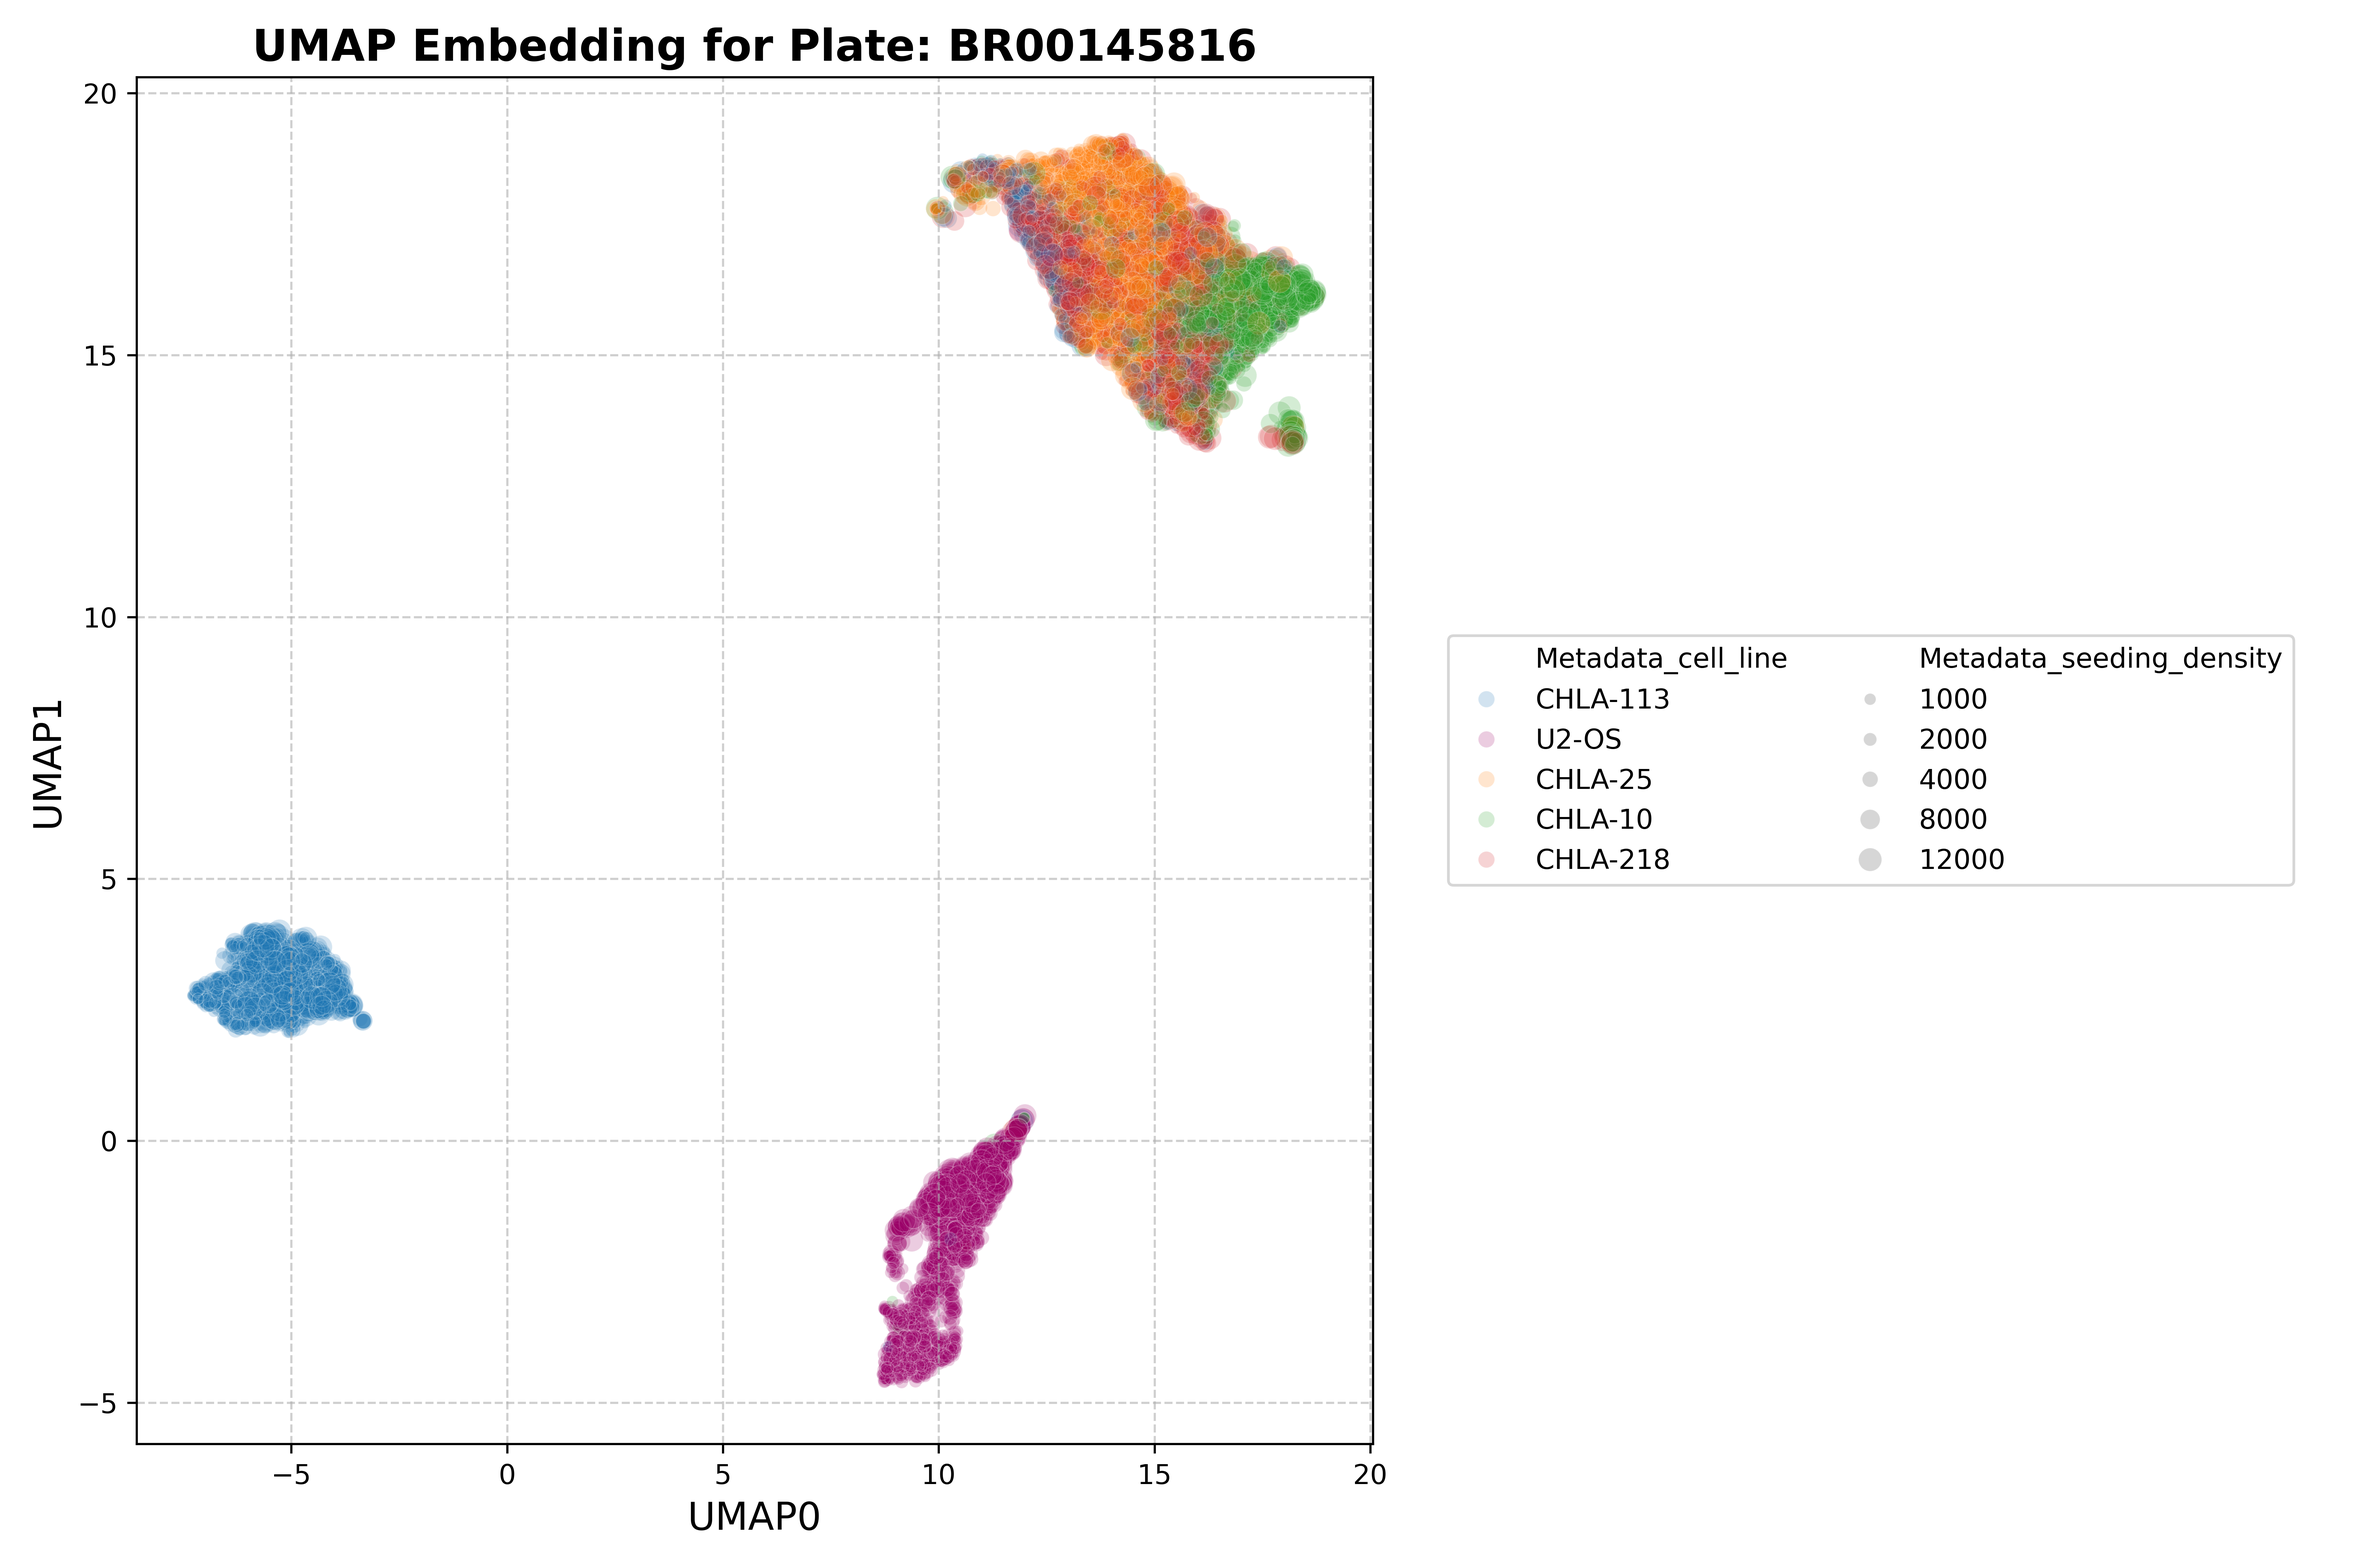
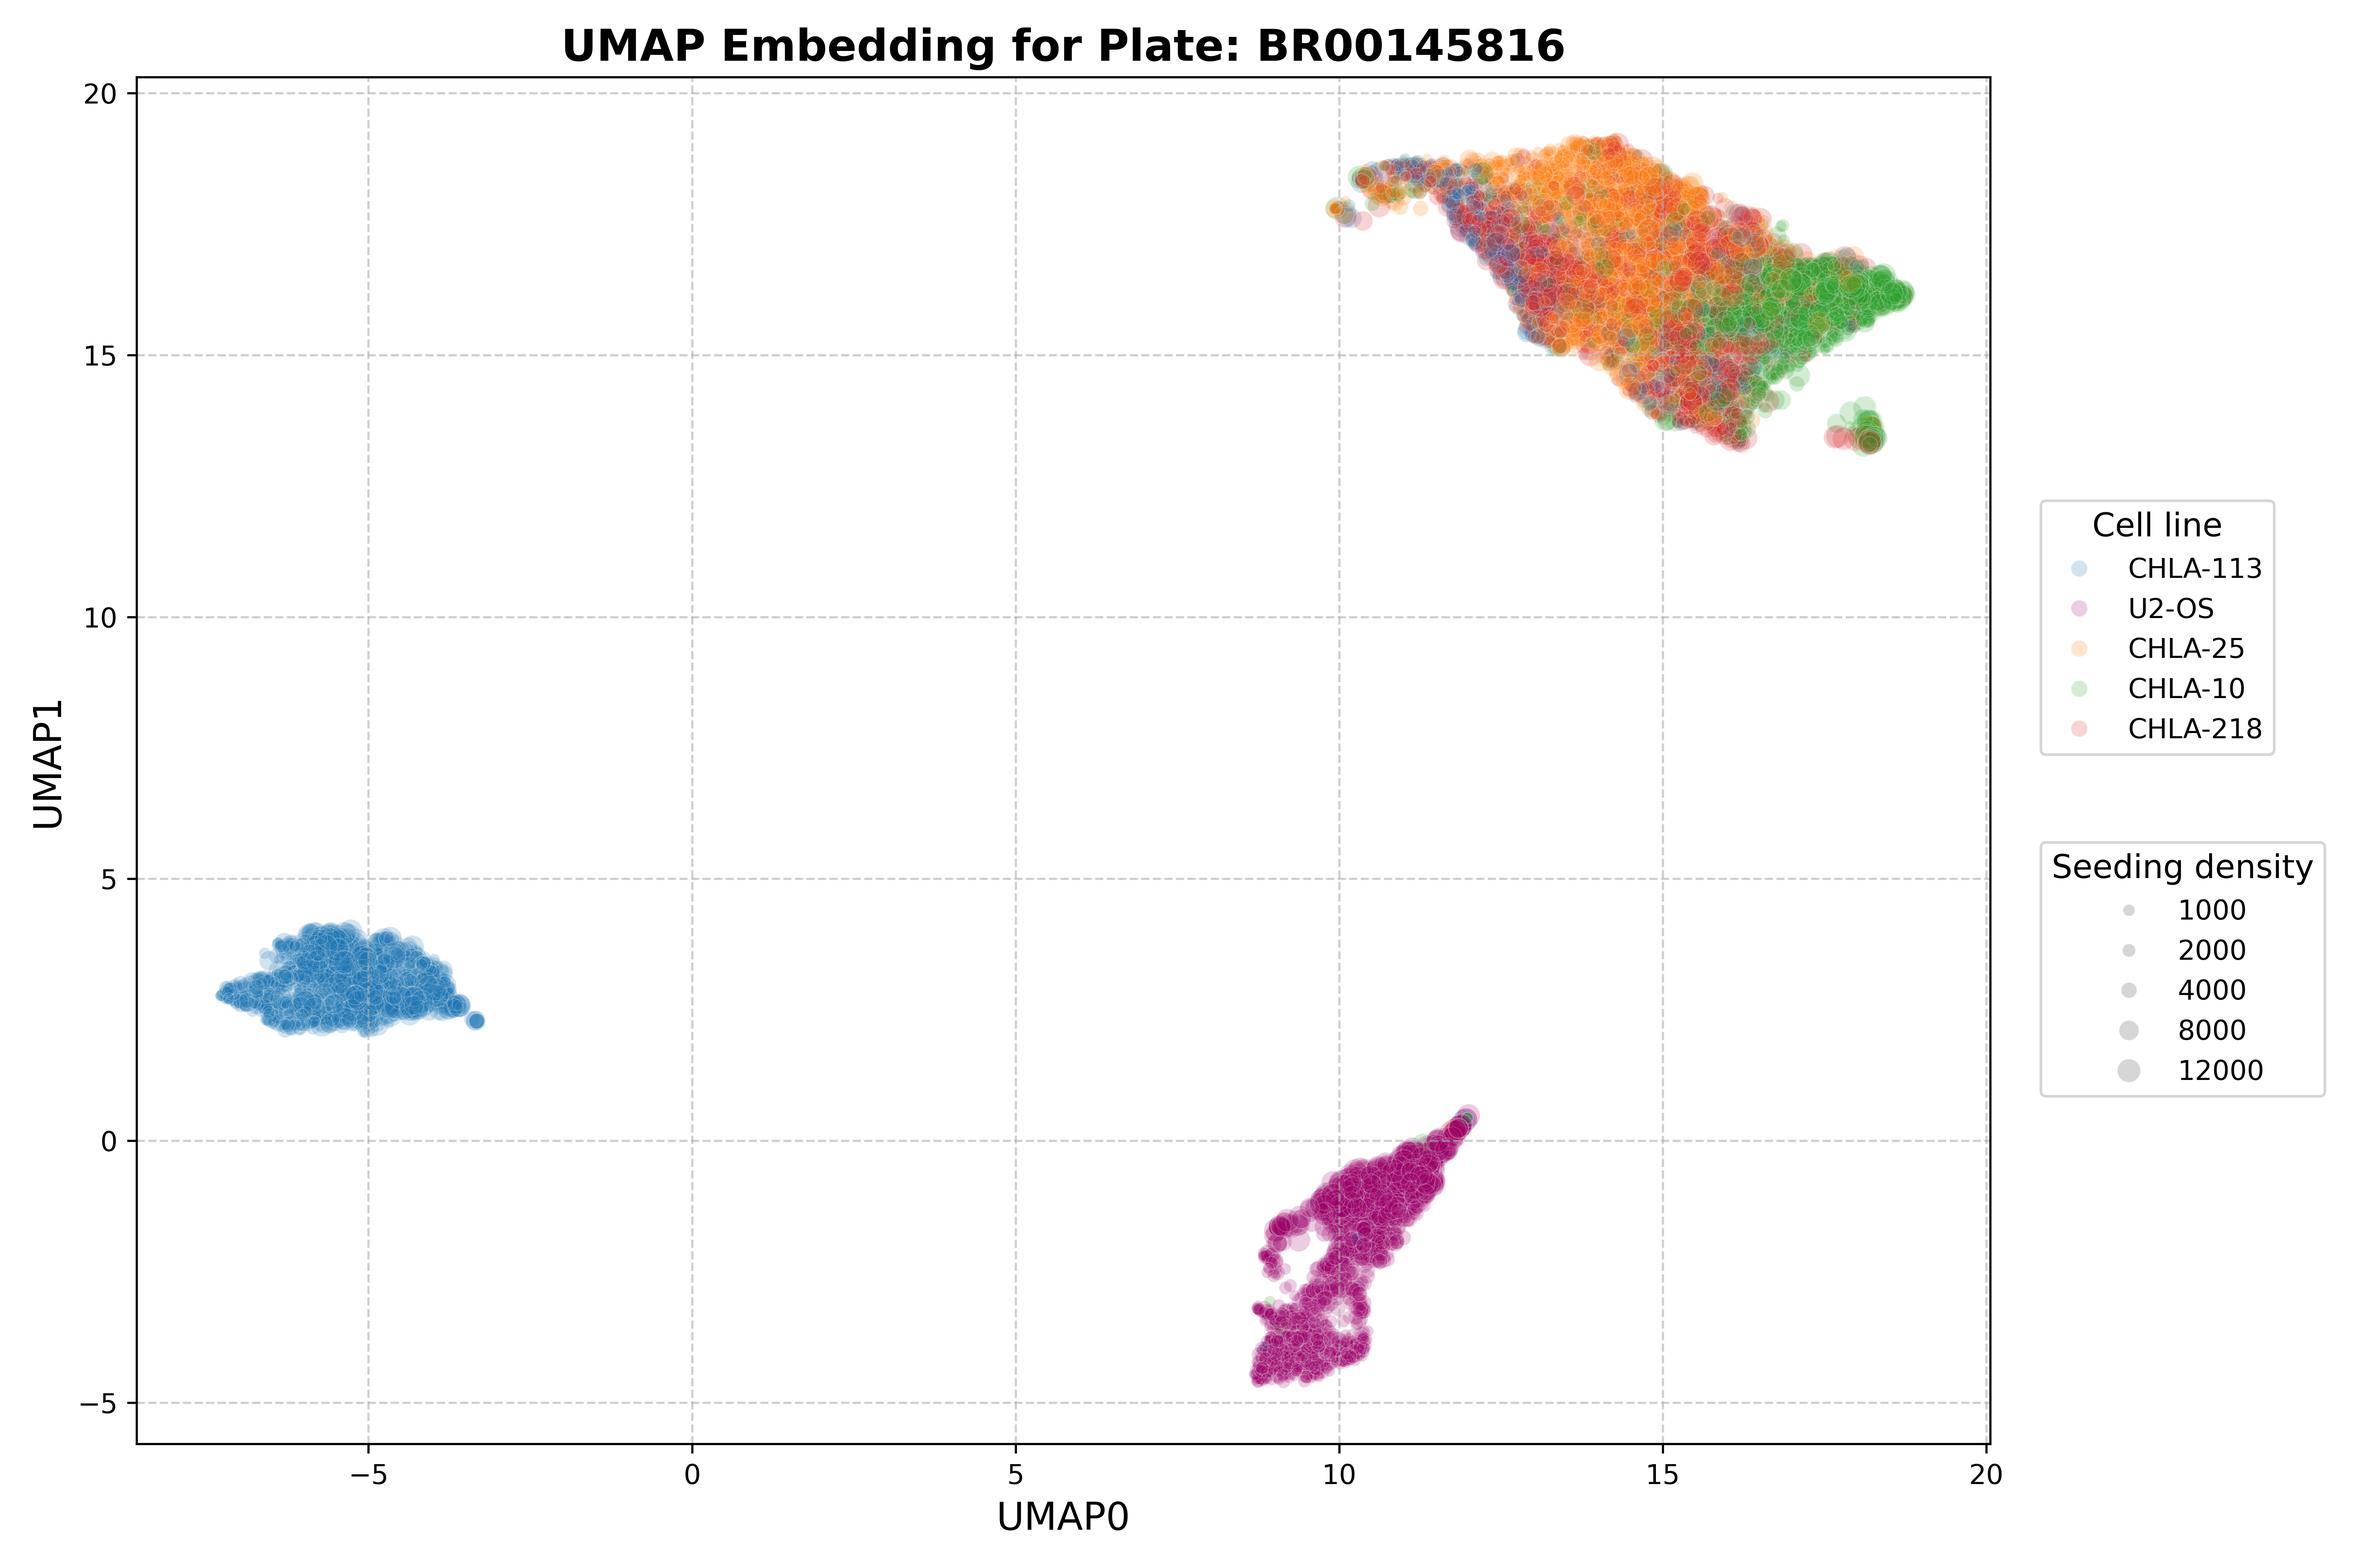
update plots per PR review

diff --git a/1.exploratory_data_analysis/static_UMAP_analysis/nbconverted/0.UMAP_embeddings.py b/1.exploratory_data_analysis/static_UMAP_analysis/nbconverted/0.UMAP_embeddings.py
@@ -51,7 +51,7 @@ if root_dir is None:
 
 
 # Set the round ID for the current analysis
-round_id = "Round_1_data"
+round_id = "Round_2_data"
 
 # Create the directory for saving figures
 figures_dir = pathlib.Path(f"./figures/{round_id}")
@@ -60,7 +60,7 @@ figures_dir.mkdir(exist_ok=True)
 # directory to the single-cell data (based on local system)
 data_dir = pathlib.Path(
     f"../../../pediatric_cancer_atlas_profiling/3.preprocessing_features/data/single_cell_profiles/{round_id}/"
-)
+).resolve(strict=True)
 
 # create a list of paths to each feature-selected profile
 feature_selected_files = list(data_dir.rglob("*_feature_selected.parquet"))
@@ -286,7 +286,7 @@ for plate_name, final_df in umap_results_dict.items():
 
     # Plot
     plt.figure(figsize=(12, 8))
-    sns.scatterplot(
+    scatter = sns.scatterplot(
         data=final_df,
         x="UMAP0",
         y="UMAP1",
@@ -301,14 +301,70 @@ for plate_name, final_df in umap_results_dict.items():
     plt.xlabel("UMAP0", fontsize=14)
     plt.ylabel("UMAP1", fontsize=14)
 
-    # Customize and reposition the legend
-    plt.legend(
+    # Split legends manually
+    ax = plt.gca()
+
+    # Get handles and labels
+    handles, labels = ax.get_legend_handles_labels()
+
+    # Prepare sets for unique legends
+    cell_line_handles = []
+    cell_line_labels = []
+    seeding_handles = []
+    seeding_labels = []
+
+    # Use a set to track seen labels and avoid duplicates
+    seen_labels = set()
+
+    for handle, label in zip(handles, labels):
+        if label in seen_labels or label == "":
+            continue  # Skip duplicates and empty labels
+        seen_labels.add(label)
+
+        if label in final_df["Metadata_cell_line"].unique():
+            cell_line_handles.append(handle)
+            cell_line_labels.append(label)
+        elif (
+            label.isdigit()
+        ):  # seeding densities are numeric strings like '1000', '2000', etc.
+            seeding_handles.append(handle)
+            seeding_labels.append(label)
+
+    # Remove the automatic legend
+    ax.legend_.remove()
+
+    # Dynamically set vertical position based on number of cell lines
+    if round_id == "Round_2_data" and len(cell_line_labels) > 7:
+        cell_line_legend_y = 0.90  # Higher position for Round_2 with many cell lines
+    elif len(cell_line_labels) > 7:
+        cell_line_legend_y = 0.85  # Higher position for many cell lines in other rounds
+    else:
+        cell_line_legend_y = 0.70  # Default position
+
+    # Add the cell line legend
+    legend1 = ax.legend(
+        cell_line_handles,
+        cell_line_labels,
+        title="Cell line",
         fontsize=10,
         title_fontsize=12,
-        loc="center left",
-        bbox_to_anchor=(1.05, 0.5),
-        ncol=2,
+        loc="upper left",
+        bbox_to_anchor=(1.02, cell_line_legend_y),
     )
+
+    # Add the seeding density legend directly below it
+    legend2 = ax.legend(
+        seeding_handles,
+        seeding_labels,
+        title="Seeding density",
+        fontsize=10,
+        title_fontsize=12,
+        loc="upper left",
+        bbox_to_anchor=(1.02, 0.45),  # Adjust this to move it up/down
+    )
+
+    # Make sure both legends are on the plot
+    ax.add_artist(legend1)
 
     plt.grid(True, linestyle="--", alpha=0.6)
     plt.tight_layout()
@@ -367,8 +423,8 @@ plt.legend(
     fontsize=10,
     title_fontsize=12,
     loc="center left",
-    bbox_to_anchor=(1.05, 0.5),
-    ncol=2,
+    bbox_to_anchor=(1.02, 0.5),
+    ncol=1,
 )
 plt.grid(True, linestyle="--", alpha=0.6)
 plt.tight_layout()

diff --git a/1.exploratory_data_analysis/static_UMAP_analysis/README.md b/1.exploratory_data_analysis/static_UMAP_analysis/README.md
@@ -3,7 +3,7 @@
 In this module, we perform EDA (exploratory data analysis) using the pilot morphology data that we have extracted.
 Current analysis includes:
 
-1. [Single-cell UMAPs](./0.UMAP_embeddings.ipynb): We generate UMAP embeddings per plate where we subsample ~10,000 cells that is balanced across cell lines and stratified by seeding density.
+1. [Single-cell UMAPs](./0.UMAP_embeddings.ipynb): We generate UMAP embeddings with ~10,000 cells per plate by performing equal-size stratified sampling across cell line and seeding density.
 
 We are using a Linux-based machine running Pop_OS! LTS 22.04 with an AMD Ryzen 7 3700X 8-Core Processor with 16 CPUs and 125 GB of MEM.
 
